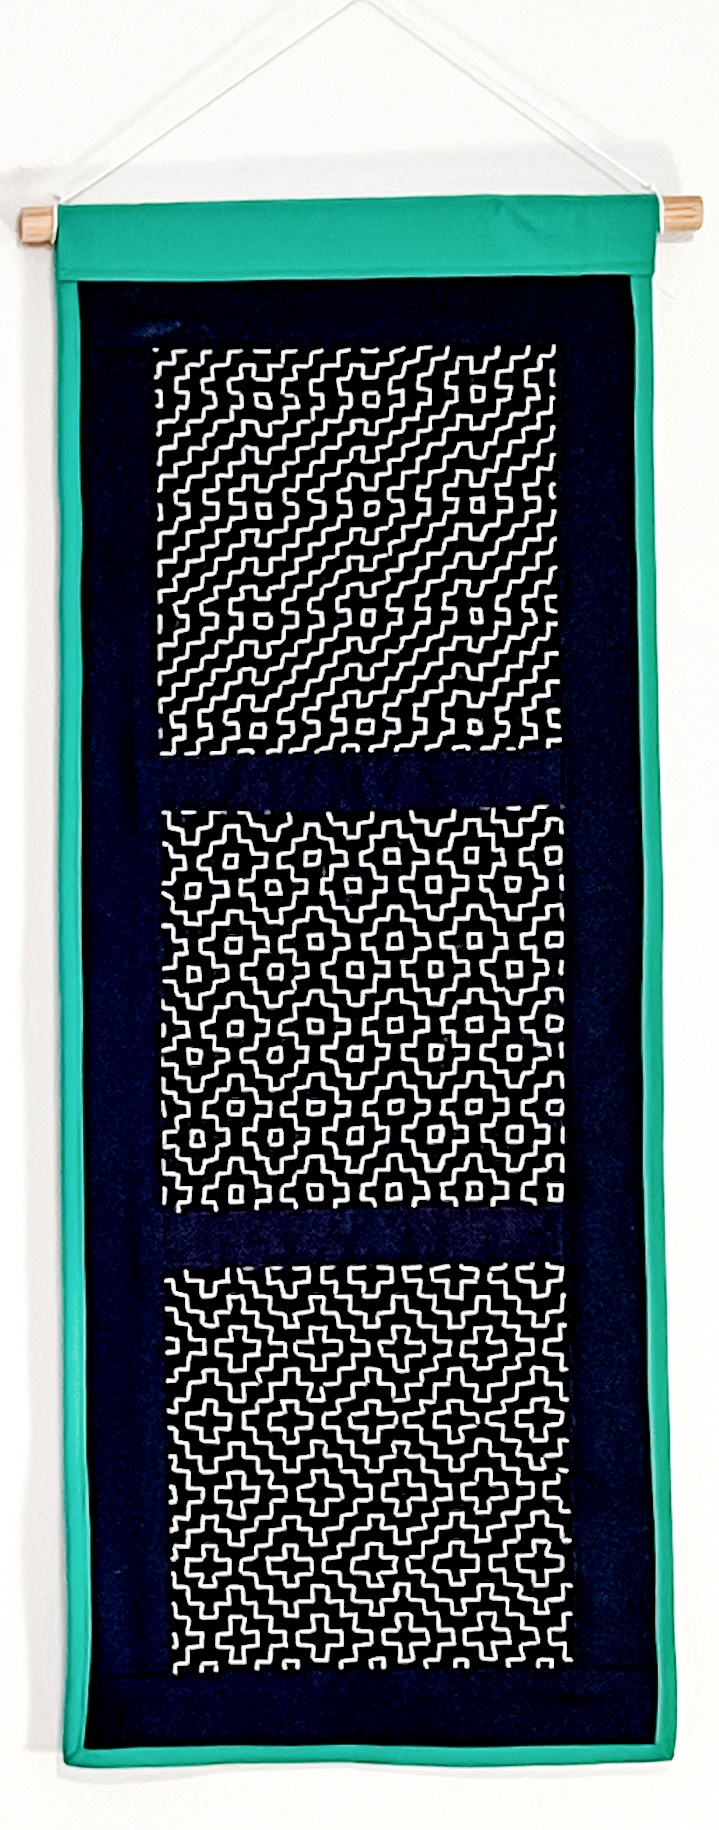
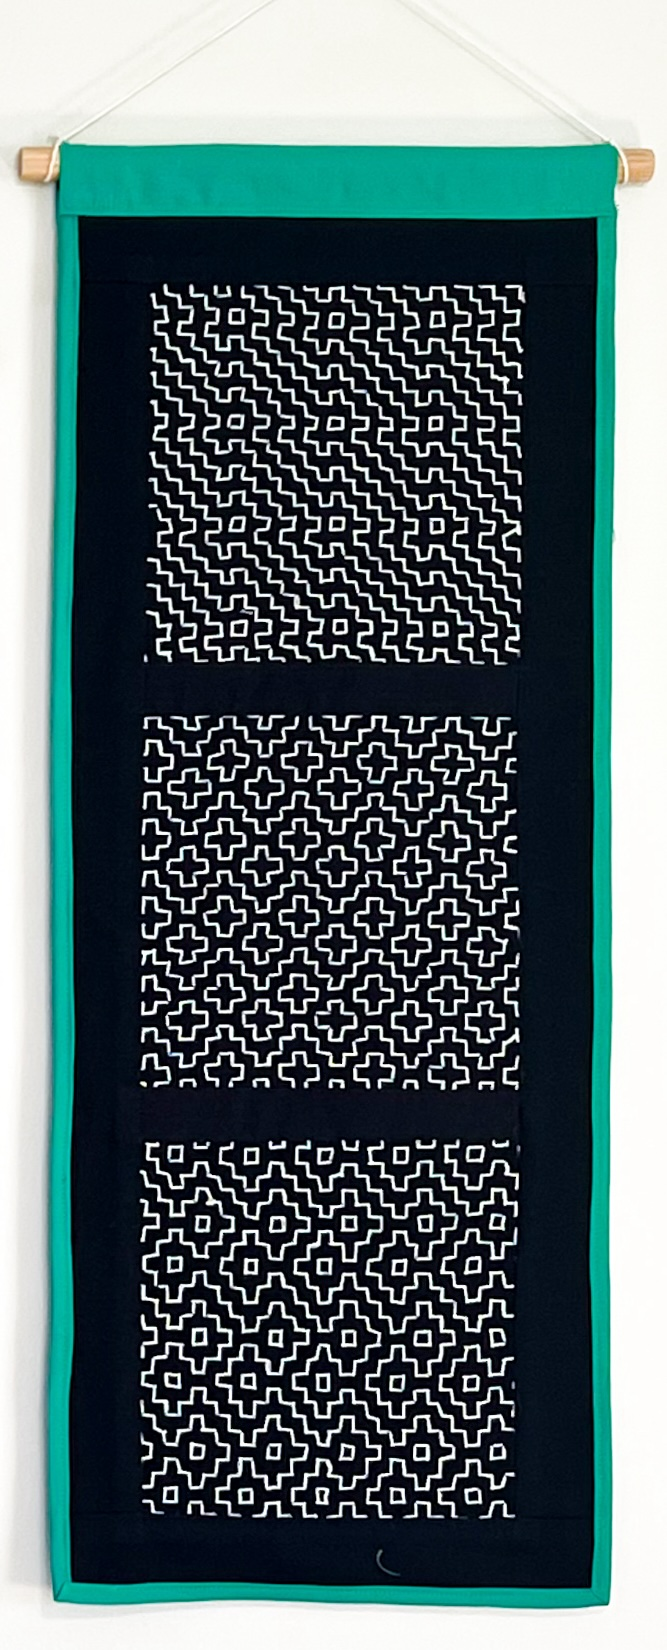
Fixing Text

diff --git a/index.html b/index.html
@@ -101,8 +101,7 @@ justify-content: center;
           <div class="Container">
             <h2>Green Panel</h2>
             <p>The green panel displays examples of hitomezashi-inspired designs with 
-              wallpaper groups cm (top), pmg (middle), and p2 (bottom - currently this is actually pmg again; 
-              edits are being made to replace with a p2 design).
+              wallpaper groups cm (top), pmg (middle), and p2.
             </p>
             <div class="row">
             <div class="column">
